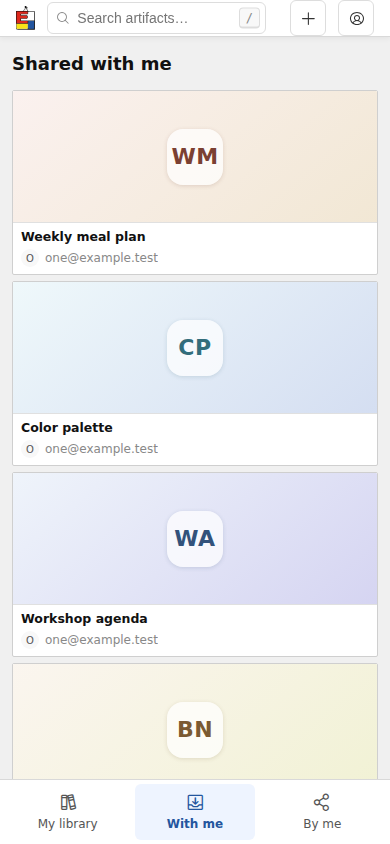
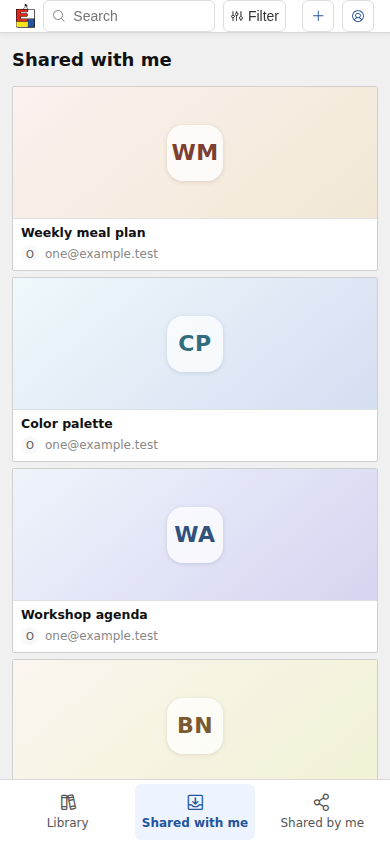
docs(gallery): refresh navigation captures and close Exh-1l70

diff --git a/.tickets/Exh-1l70.md b/.tickets/Exh-1l70.md
@@ -1,6 +1,6 @@
 ---
 id: Exh-1l70
-status: in_progress
+status: closed
 deps: []
 links: []
 created: 2026-11-01T21:40:15Z
@@ -22,3 +22,9 @@ Signed-in library spaces remain available through zero/nonzero sharing counts wi
 
 Validate relevant behavior at 320, 375, 390 and 430 CSS px, light/dark, and desktop. Check actual target rectangles, no body horizontal overflow, long labels and enlarged text; preserve safe areas and zoom. Run meaningful existing/targeted tests and project-required checks. Obtain independent Standards and Spec subagent reviews against a pinned base and this ticket, fix important findings, and document evidence/limitations in the PR. Never merge or deploy. Do not claim physical iPhone/VoiceOver testing without performing it.
 
+
+## Notes
+
+**2026-11-01T22:11:28Z**
+
+Implemented persistent zero-count library destinations and full shared labels with scoped wrapping. Focused Go/Chromium navigation, filters, permissions, history and count-transition suite passed; screenshots refreshed and light/dark captures inspected at 320/375/390/430/1280. Independent Standards and Spec reviews report no must-fix findings; stale architecture text and screenshots corrected. Parent explicitly owns combined enlarged-text clearance with tabsize in-flow sticky rail; no sizing changes here. Full aggregate suite remains with parent after runtime interruptions; no physical iPhone/VoiceOver testing.

diff --git a/docs/ui-components.md b/docs/ui-components.md
@@ -288,6 +288,14 @@ go test ./internal/api -run 'TestGallerySpace(Navigation.*Browser|Fragments|Frag
 go test -tags screenshot ./internal/api -run '^TestCaptureGallerySpaceNavigation$' -count=1
 ```
 
+Empty sharing destinations retain navigation, including after the last share is
+revoked. `TestGalleryEmptySpacesBrowser` exercises both themes at 320, 375, 390,
+430 and 1280px, plus enlarged and long labels. Set `GALLERY_SCREENSHOT_DIR` to
+capture these empty states while running the test.
+
+[Empty sharing space at 320px](screenshots/Exh-1l70/empty-320-light.png) ·
+[Dark mode](screenshots/Exh-1l70/empty-320-dark.png)
+
 The browser suite uses the real htmx, Stimulus and Clerk loader/controller
 against local SDK doubles. It checks document/header/account node identity,
 load/reload/mount counts, history, permissions, duplication, widget remounts,
